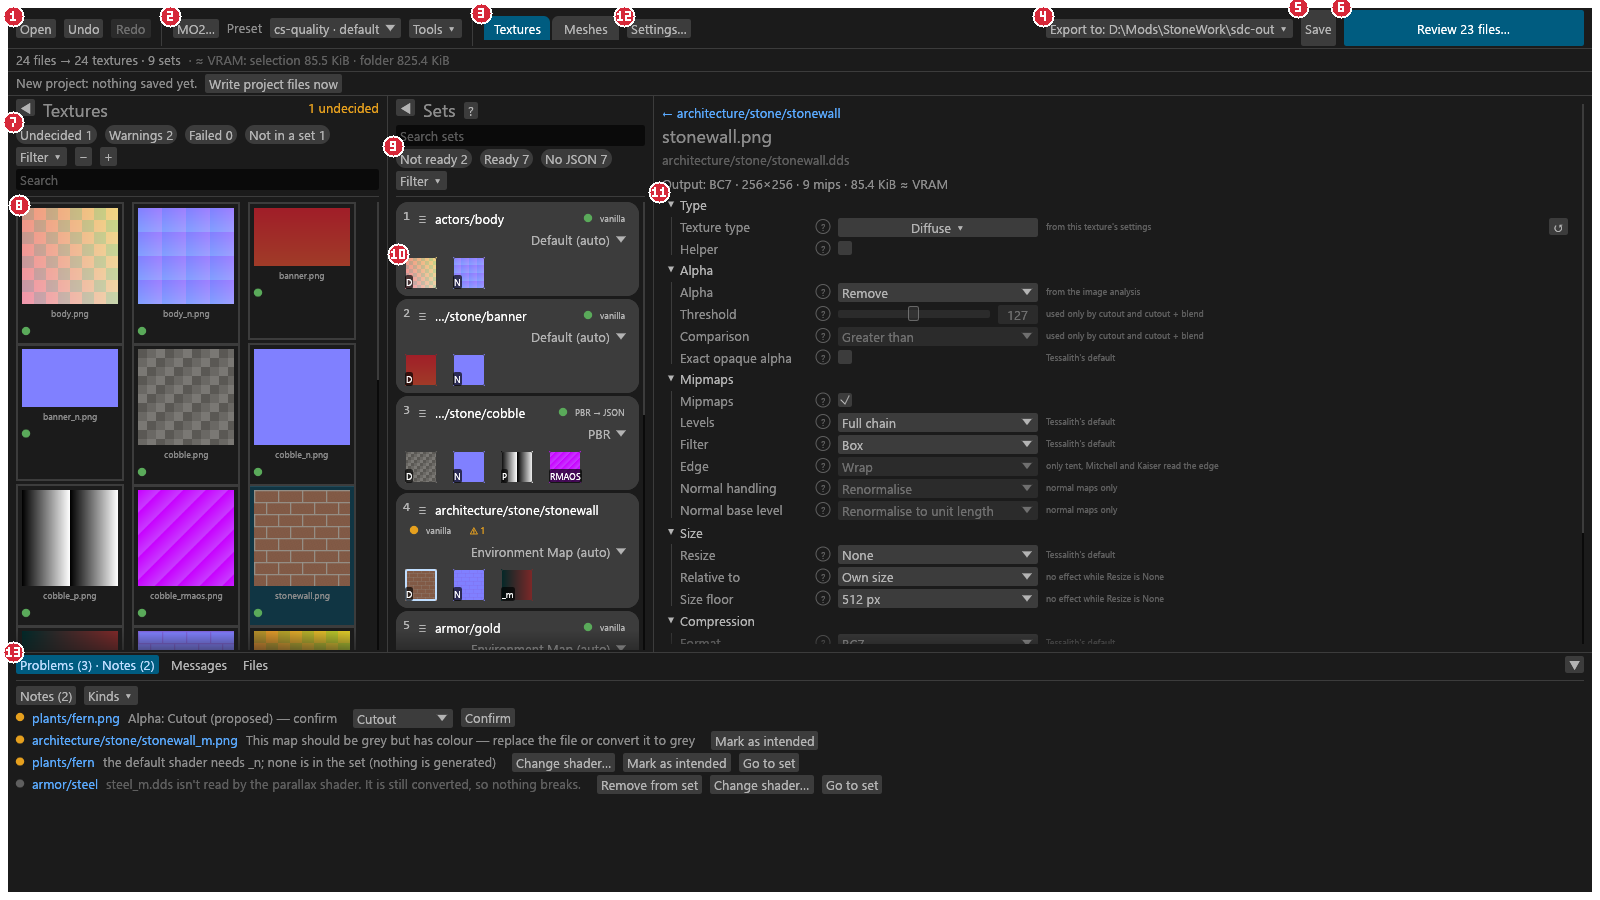
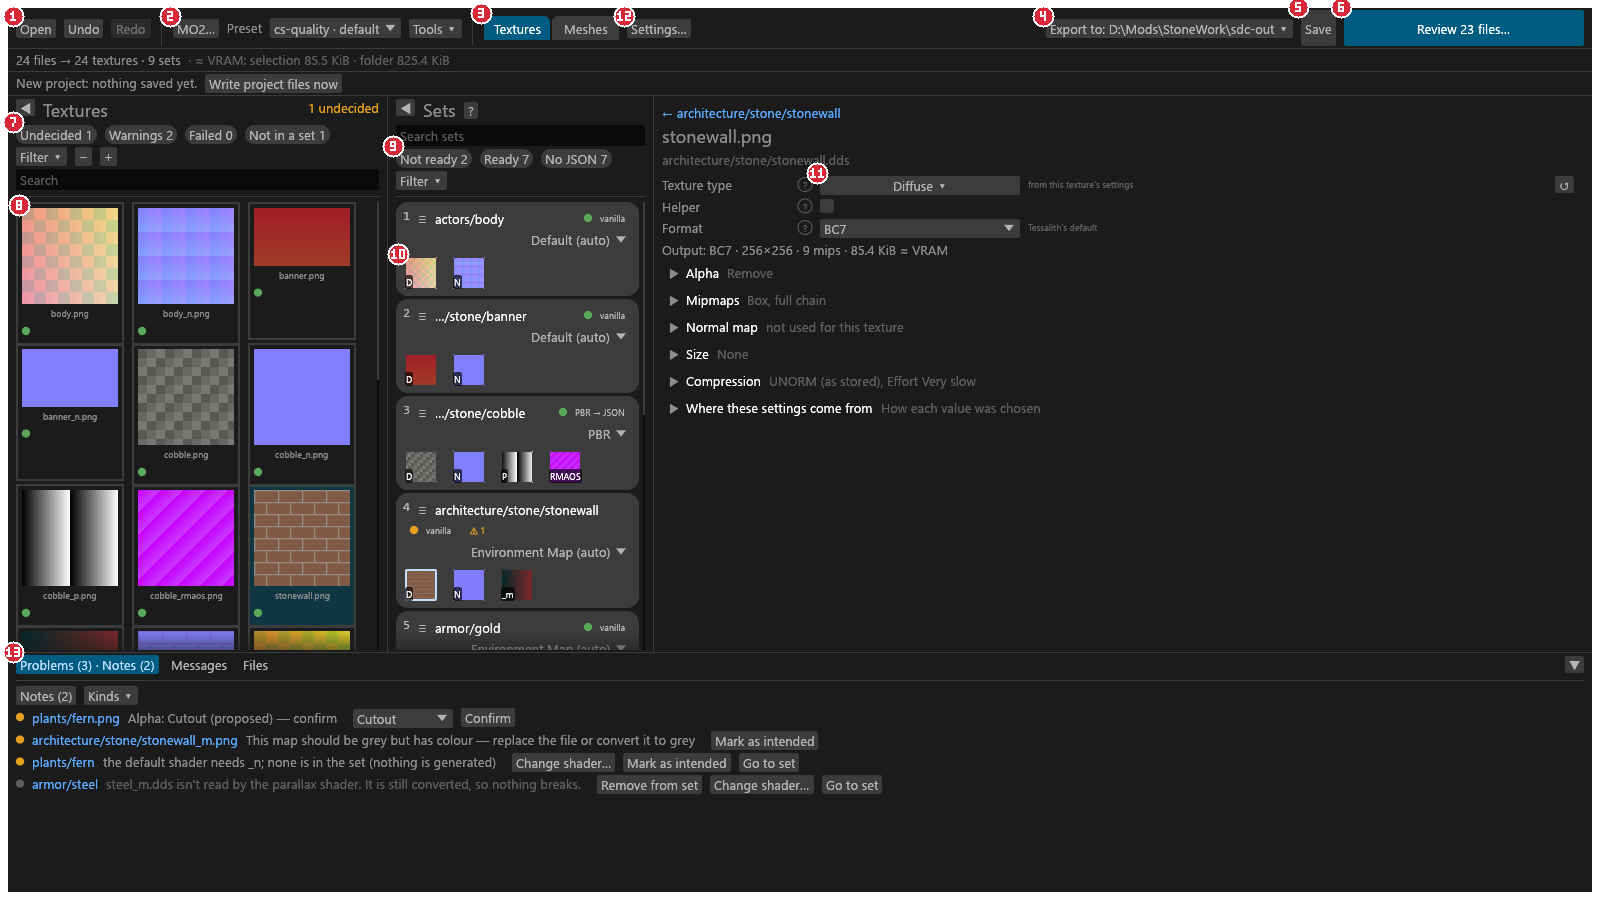
docs: compact texture panel
Assisted-by: Claude Code

diff --git a/crates/gui/tests/doc_shots/scenarios.rs b/crates/gui/tests/doc_shots/scenarios.rs
@@ -7,6 +7,7 @@ use eframe::egui::{self, accesskit::Role, Pos2, Rect};
 use egui_kittest::kittest::{NodeT as _, Queryable};
 use image::{ImageBuffer, Rgb, RgbaImage};
 use sdc_gui::model::bottom::BottomTab;
+use sdc_gui::model::panel_groups::{self, PanelGroup};
 use sdc_gui::model::rename::RenameMode;
 use sdc_gui::model::{Answer, AppModel};
 use sdc_gui::settings::GuiSettings;
@@ -304,7 +305,10 @@ fn tile_menu(dir: &Path) -> Frame {
 
 /// GUI-Texture-Panel: the settings of a diffuse with cut-out alpha.
 fn texture_panel(dir: &Path) -> Frame {
-    let mut h = opened_with(dir, |_| {});
+    // One open group (Mipmaps) shows what a group's rows look like beside the closed ones.
+    let mut h = opened_with(dir, |m| {
+        panel_groups::set_open(&mut m.settings, PanelGroup::Mipmaps, true)
+    });
     let r = reveal(&mut h, |h| {
         h.state_mut().model.select_item("plants/fern.png")
     });
@@ -449,6 +453,7 @@ fn cube_panel(dir: &Path) -> Frame {
             m.decide(f, Answer::Subtype(engine::config::Subtype::Cubemap));
             assert!(m.wait_idle(Duration::from_secs(60)));
         }
+        panel_groups::set_open(&mut m.settings, PanelGroup::Cubemap, true);
     });
     let r = reveal(&mut h, |h| {
         h.state_mut().model.select_item("sky/env_px.png")

diff --git a/docs/wiki/GUI-Texture-Panel.md b/docs/wiki/GUI-Texture-Panel.md
@@ -4,7 +4,9 @@ For anyone with one texture selected who wants to change how it encodes, or to a
 
 ## Reading the panel
 
-The centre column groups a texture's settings as Type, Alpha, Mipmaps, Size and Compression. <!-- D:JI3 --> Each value says where it came from, for example "from sdc.toml", "suggested" or "from the meshes that use this texture". A line at the top gives the output format, size, mip count and VRAM; greyed options carry their reason on hover.
+Each texture opens on what you check first: its name, its type, the output format and size, the meshes that use it, and its problems. Every other setting sits in a group below: **Alpha**, **Mipmaps**, **Normal map**, **Size**, **Compression**, then **Cubemap** or **Channels** where they apply. A closed group says what it holds (**Mipmaps** reads "Kaiser, full chain") and shows **● changed** when you set a value in it; open, its rows show the values. When you select a texture with a problem, the group that holds it opens, and **Go to** in Problems opens it at the setting. Tessalith remembers which groups you keep open, for every texture and project. <!-- D:JI3,LQ -->
+
+Each value says where it came from, for example "from sdc.toml", "suggested" or "from the meshes that use this texture". A line under Format gives the output format, size, mip count and VRAM; greyed options carry their reason on hover.
 
 ![The settings of a fern texture.](../img/gui/GUI-Texture-Panel/texture-panel.png)
 
@@ -112,7 +114,7 @@ The Alpha row then reads *from the meshes that use this texture*. Your own choic
 
 ## Used by meshes
 
-After a [scan](Mod-Scanning.md), the list under the texture's heading reads **Used by {n} meshes** (**Used by 1 mesh**). It counts the NIF copies in the scan database that use the texture, so the number matches what a click can open. <!-- D:LM13 -->
+After a [scan](Mod-Scanning.md), the list under the texture's heading, closed until you open it, reads **Used by {n} meshes** (**Used by 1 mesh**). It counts the NIF copies in the scan database that use the texture, so the number matches what a click can open. <!-- D:LM13 -->
 
 - **A row** is one NIF in one mod: its path (the whole path on hover), then one line per copy, such as "{mod} · MO2 priority {p}" or "{mod} · BSA load rank {p}". A copy that loses to another mod's reads "(overridden by {mod})", with "at {root}" added when the winner has the same mod name in another root. <!-- D:LM13 -->
 - **An amber "decided the alpha" tag** marks a copy whose alpha settings decided what this texture's alpha means ([Alpha from the meshes](#alpha-from-the-meshes)). It looks at every copy, not only the listed ones. <!-- D:LM13 -->

diff --git a/docs/wiki/GUI-Bulk-and-Rename.md b/docs/wiki/GUI-Bulk-and-Rename.md
@@ -30,6 +30,8 @@ A row that writes the same value to every texture says how many of the selected 
 - **Rows with options that differ in reach:** the mip filter, BC7 weighting, Format and DDS tag list every option as "{option} ({k} of {n})", counting the textures a write of that value reaches. A texture that already holds the value counts. An option that reaches none is greyed ("None of the selected textures can take this"), and while an edit is running every other option is greyed too ("Wait for the plan to finish"). A read-only `sdc.toml` greys every row, and the panel says why. The row's note groups options of equal reach, widest first, two groups at most, then "others vary". <!-- D:LM11 -->
 - **A packed output** is a tile of its own, so Ctrl+A selects it, and an unlocked setting such as mip levels is written to the output's own entry. A source that feeds an output but has no job of its own is skipped. Hover either tile: the output says what it is made from, the source says "Packed into {output}: changing this file changes {output}." and, for one with no job, that bulk edits skip it. <!-- D:LM16 -->
 
+When the selection holds normal maps, a **Green** row under Format sets them all to OpenGL (**Treat as OpenGL (flip green)**) or DirectX (**Treat as DirectX**) in one undo step. Model-space normals (`_msn`), textures still waiting for their type, and other textures are left as they are, and the row's hover says why. Like **Apply**, it is off while a plan runs or `sdc.toml` is read-only, and it reads your selection again at the click. <!-- D:LQ -->
+
 ## The right-click menu
 
 Right-clicking a selected tile or set keeps the selection; right-clicking another entry selects it alone.

diff --git a/docs/wiki/Cubemaps.md b/docs/wiki/Cubemaps.md
@@ -158,7 +158,7 @@ The default is one source cell rounded to a power of two, at most 4096 ([`cubema
 
 ## The cube panel in the GUI
 
-A texture whose type is **Cubemap** (under *Other* in the type picker) gets a **Cubemap** section in its settings panel with the **Source**, **Orientation**, **Colour grade** and **Look** groups. Everything it writes goes to `sdc.toml` as the matching `cubemap.*` key.
+A texture whose type is **Cubemap** (under *Other* in the type picker) gets a **Cubemap** group in its settings panel, which holds the **Source**, **Orientation**, **Colour grade** and **Look** settings. Everything it writes goes to `sdc.toml` as the matching `cubemap.*` key.
 
 ![The panel of a six-face cubemap.](../img/gui/Cubemaps/cube-panel.png)
 
